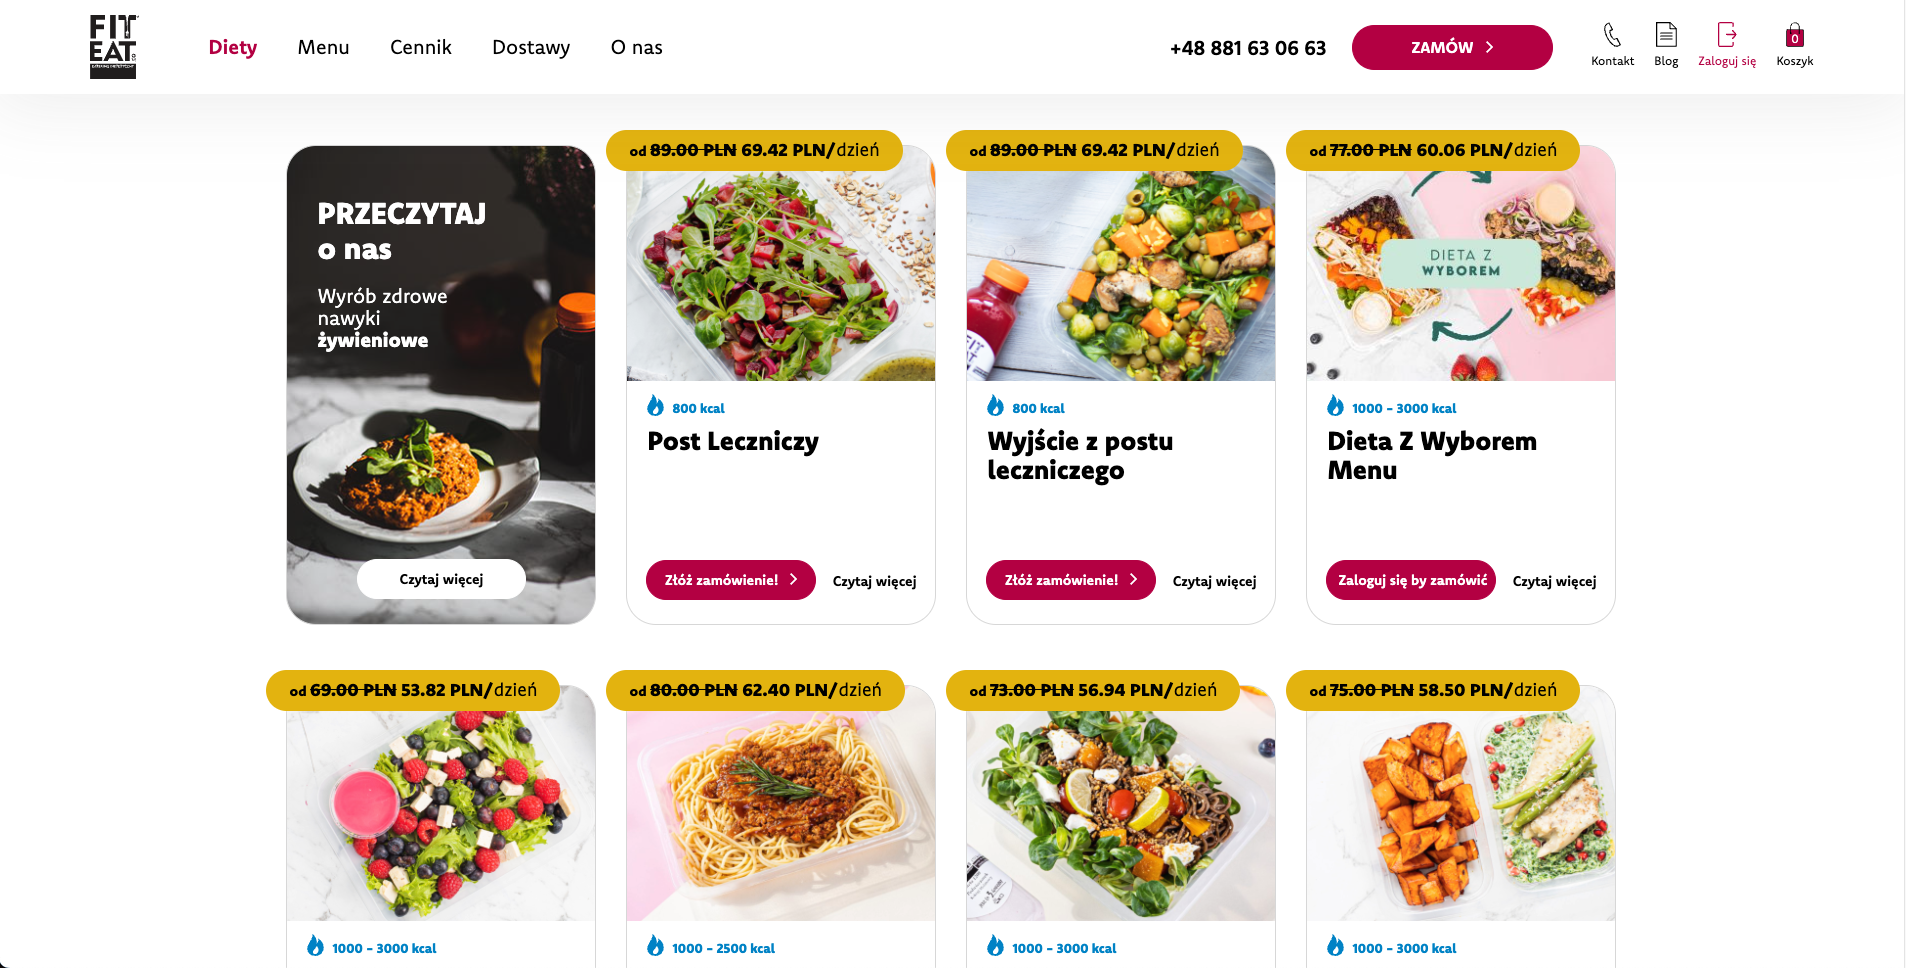
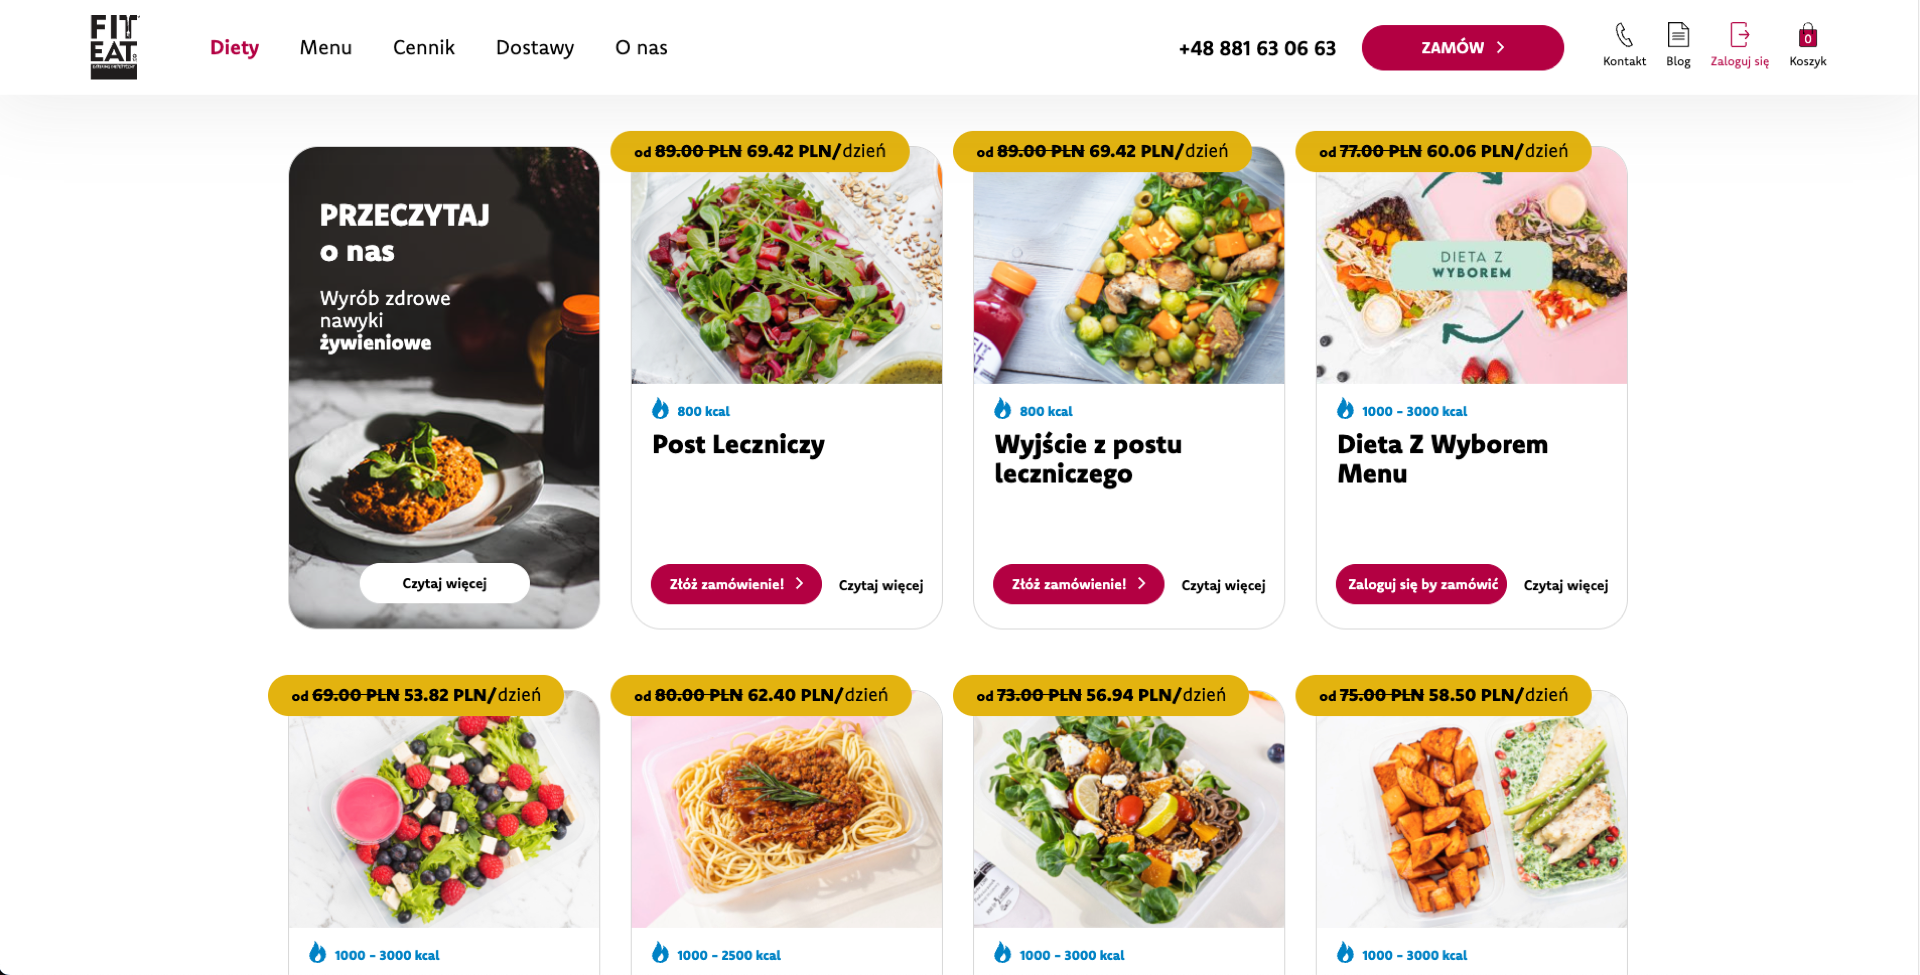
decrease images size and enable Next.js automatic image optimization by updating `next.config.ts`

diff --git a/next.config.ts b/next.config.ts
@@ -1,10 +1,5 @@
 import type { NextConfig } from "next";
 
-const nextConfig: NextConfig = {
-  output: "export",
-  images: {
-    unoptimized: true, // Required for static export
-  },
-};
+const nextConfig: NextConfig = {};
 
 export default nextConfig;
